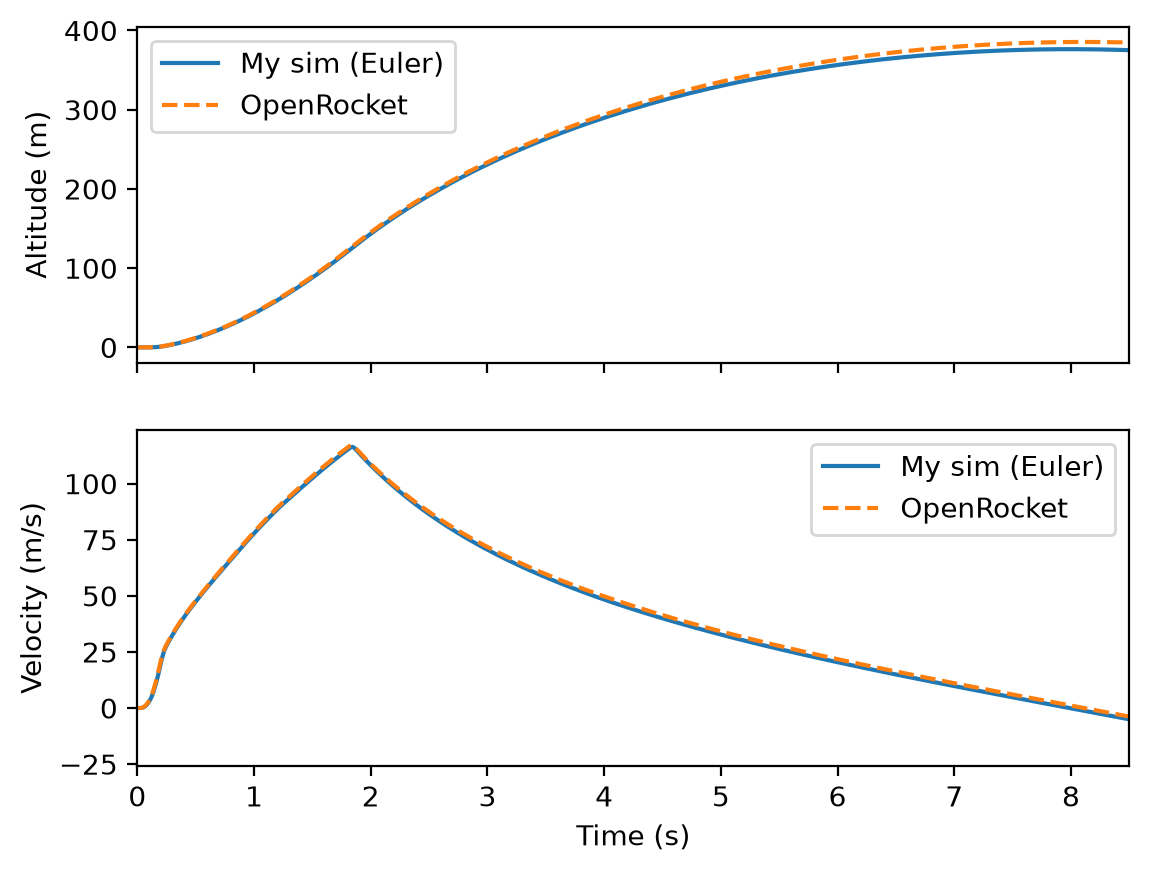
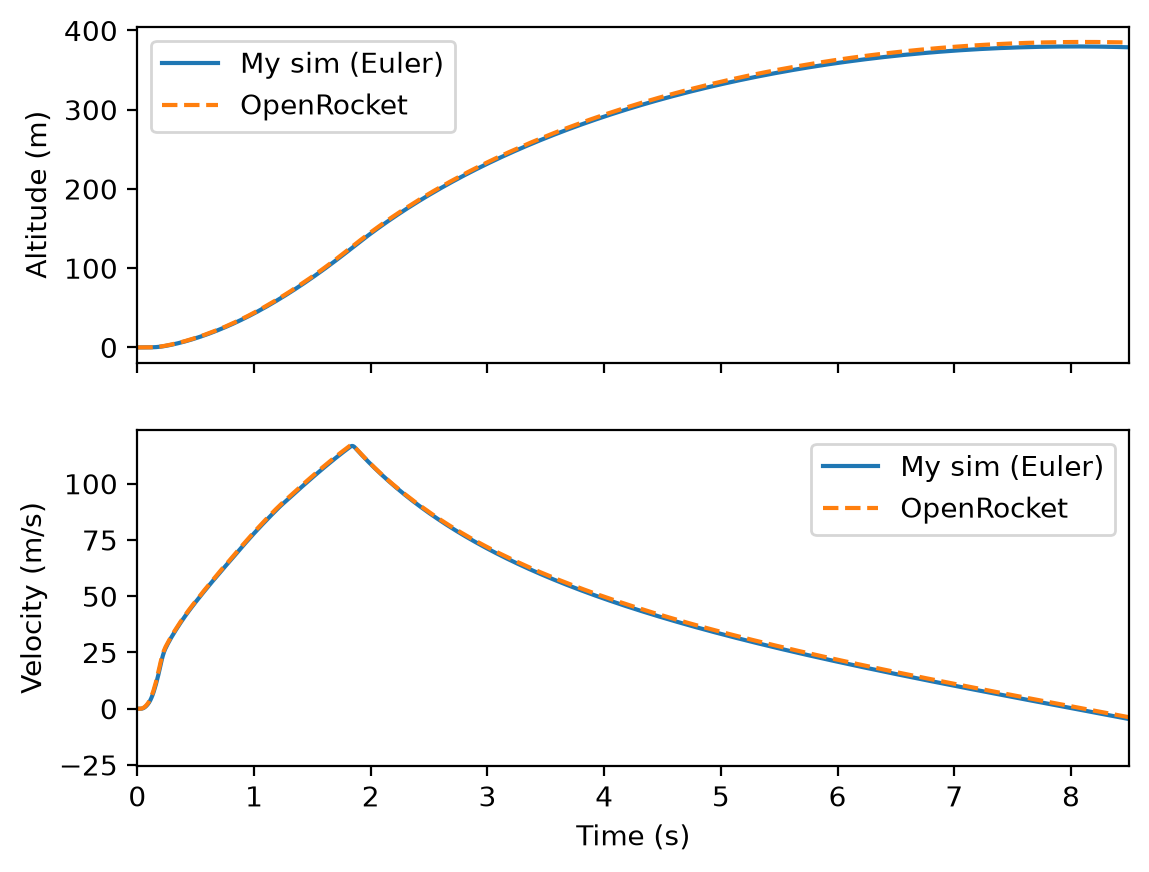
Add model switch so README results are available

diff --git a/rocket_sim.py b/rocket_sim.py
@@ -25,7 +25,13 @@ t_burn = t_data[-1]
 g = 9.81
 rho0 = 1.225
 Cd = 0.56
-A = np.pi * 0.0125**2
+use_isa = False  #----- switch to allow excel assumed conditions or variable
+use_or_diameter = False
+if use_or_diameter:
+    A = np.pi * (0.024790/2)**2
+else:
+    A = np.pi * 0.0125**2
+    #----- switch end------#
 m0 = 0.0571
 m_prop = 0.0108
 dt = 0.01
@@ -43,7 +49,7 @@ def thrust(t):
     return np.interp(t,t_data, T_data)
 
 #New - modified density function
-use_isa = True #if false then matches excel verification
+
 def air_density(h):
     if not use_isa:
         return rho0
@@ -102,7 +108,7 @@ or_v = or_data[:,2]
 or_apogee = max(or_h)
 
 #Prints and error
-
+print(f"Options: use_isa = {use_isa}, use or_diameter = {use_or_diameter}")
 print("OpenRocket apogee:", or_apogee)
 print("RK45 vs OpenRocket:", (rk_apogee - or_apogee) / or_apogee * 100, "%")
 print("Euler vs OpenRocket:", (euler_apogee - or_apogee) / or_apogee * 100, "%")
